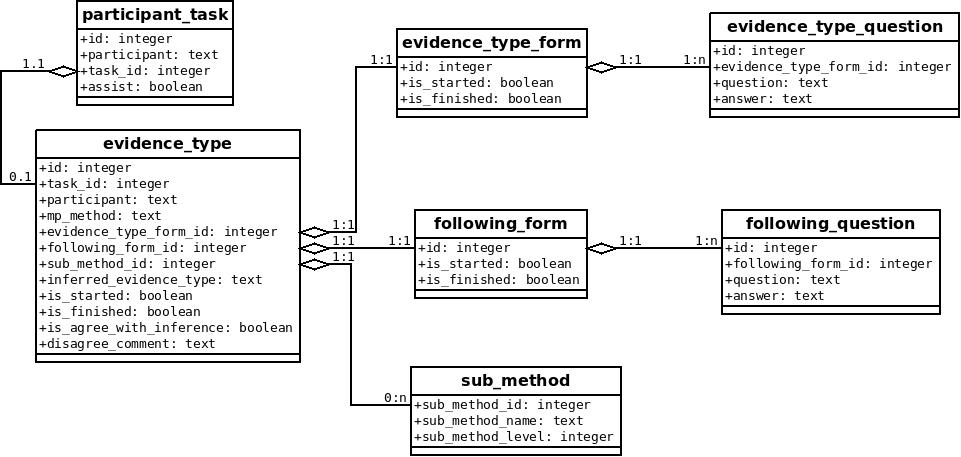
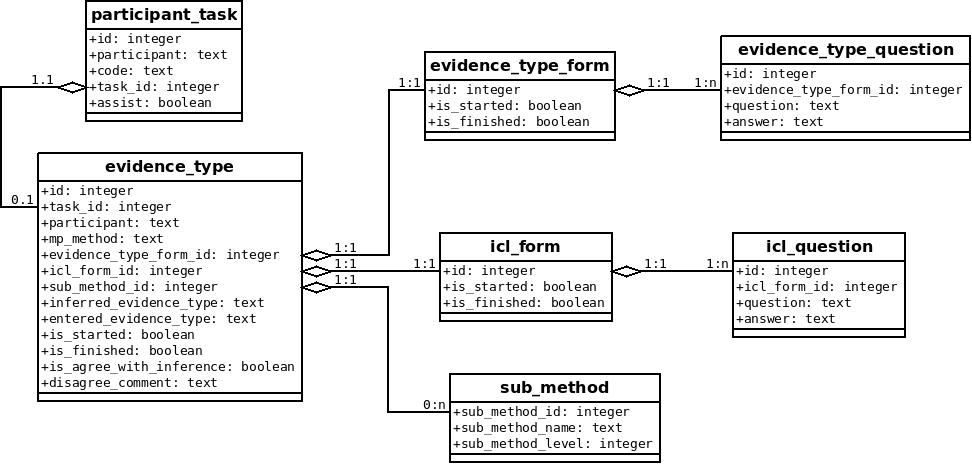
revised activity diagram and ER diagram

Changed region(s): [[0.0, 0.0, 0.999, 0.8884], [0.3746, 0.0, 0.999, 0.3063], [0.3434, 0.7965, 0.6868, 1.0]]

diff --git a/source/evidence_type_calculator/models/index.py b/source/evidence_type_calculator/models/index.py
@@ -1,7 +1,7 @@
 import os, sys
 
 ## maps for question code and full question content
-qsMap = {"ct-gr": "Group Randomization?", "ct-pgd": "Parallel Group Design?", "ct-pk": "Study Focused on Pharmacokinetic Processes?", "ct-ph": "Phenotyping?", "ct-gt": "Genotyping?", "cr-ae": "Reporting an adverse event?", "cr-pr": "Publically reported?", "cr-ep": "Following an evaluation protocol?", "exp-m-st": "Subtype?", "exp-m-at": "Assay Type?", "exp-m-mi": "Metabolic Inhibitor?", "exp-t-st": "Subtype?", "exp-t-at": "Assay Type?", "exp-t-tp": "Transporter Protein?"}
+qsMap = {"ct-gr": "Group Randomization?", "ct-pgd": "Parallel Group Design?", "ct-pk": "Study Focused on Pharmacokinetic Processes?", "ct-ph": "Phenotyping?", "ct-gt": "Genotyping?", "cr-ae": "Reporting an adverse event?", "cr-pr": "Publically reported?", "cr-ep": "Icl an evaluation protocol?", "exp-m-st": "Subtype?", "exp-m-at": "Assay Type?", "exp-m-mi": "Metabolic Inhibitor?", "exp-t-st": "Subtype?", "exp-t-at": "Assay Type?", "exp-t-tp": "Transporter Protein?"}
 
 db = DAL('sqlite://storage.sqlite', fake_migrate=True)
 
@@ -10,19 +10,19 @@ db.define_table('evidence_type_form', Field('is_started', type='boolean'), Field
 
 db.define_table('evidence_type_question', Field('evidence_type_form_id', db.evidence_type_form), Field('question', type='string'), Field('answer', type='string'))
 
-# following form
-db.define_table('following_form', Field('is_started', type='boolean'), Field('is_finished', type='boolean'))
+# icl form
+db.define_table('icl_form', Field('is_started', type='boolean'), Field('is_finished', type='boolean'))
 
-db.define_table('following_question', Field('following_form_id', db.following_form), Field('question', type='string'), Field('answer', type='string'))
+db.define_table('icl_question', Field('icl_form_id', db.icl_form), Field('question', type='string'), Field('answer', type='string'))
 
 # sub method type
 db.define_table('sub_method', Field('sub_method_name', type='string'), Field('sub_method_level', type='integer'))
 
 # evidence type
-db.define_table('evidence_type', Field('task_id', type='string'), Field('participant', type='string'), Field('mp_method', type='string'), Field('evidence_type_form_id', db.evidence_type_form), Field('following_form_id', db.following_form), Field('sub_method_id', db.sub_method), Field('inferred_evidence_type', type='string'), Field('is_started', type='boolean'), Field('is_finished', type='boolean'), Field('is_agree_with_inference', type='boolean'), Field('disagree_comment', type='string'))
+db.define_table('evidence_type', Field('task_id', type='string'), Field('participant', type='string'), Field('mp_method', type='string'), Field('evidence_type_form_id', db.evidence_type_form), Field('icl_form_id', db.icl_form), Field('sub_method_id', db.sub_method), Field('inferred_evidence_type', type='string'), Field('entered_evidence_type', type='string'), Field('is_started', type='boolean'), Field('is_finished', type='boolean'), Field('is_agree_with_inference', type='boolean'), Field('disagree_comment', type='string'))
 
 # participant task
-db.define_table('participant_task', Field('participant', type='string'), Field('task_id', type='integer'), Field('assist', type='boolean'))
+db.define_table('participant_task', Field('participant', type='string'), Field('code', type='string'), Field('task_id', type='integer'), Field('assist', type='boolean'))
 
 ## clean all tables
 db.evidence_type.truncate()
